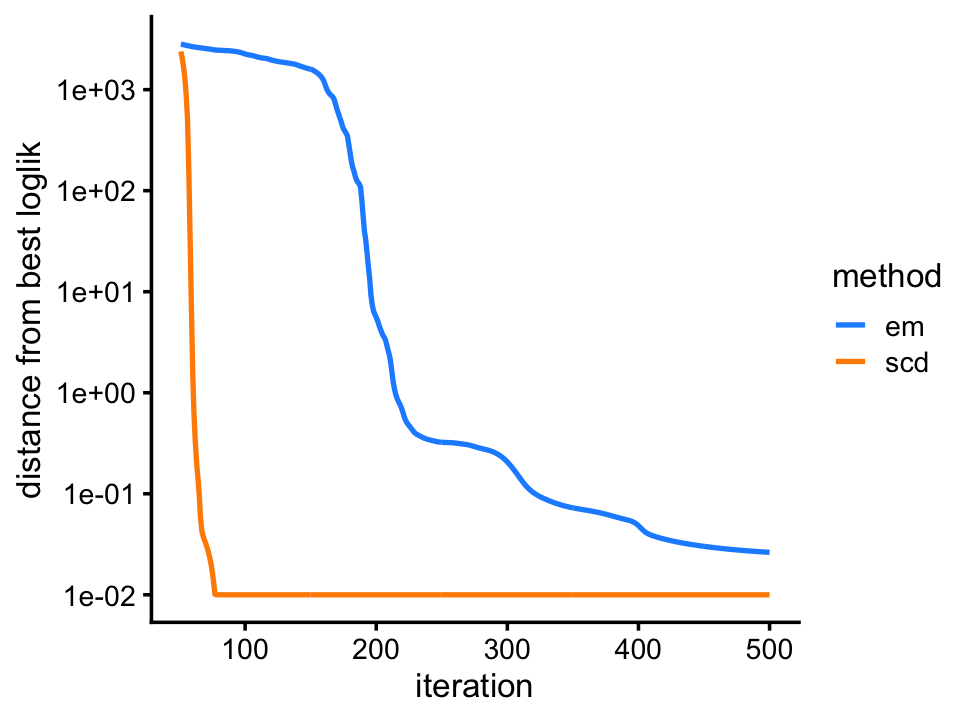
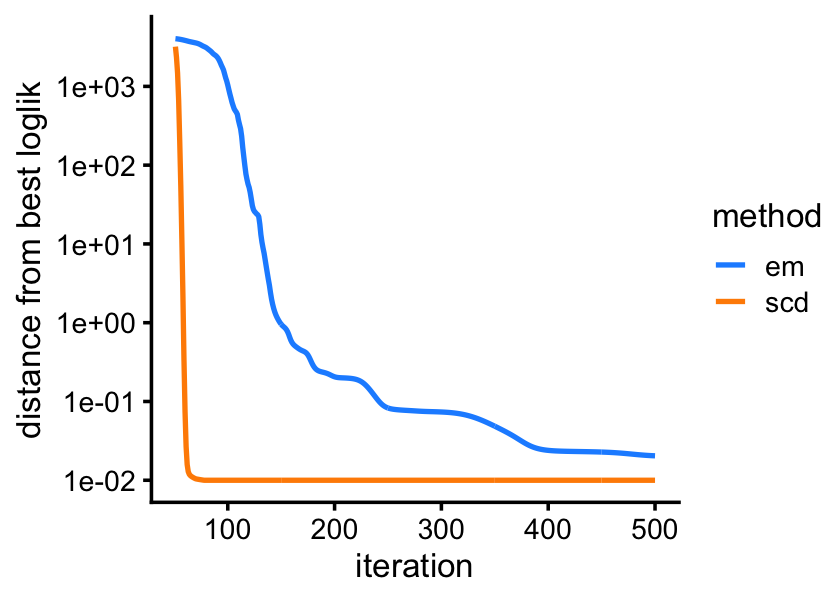
Added structure plots to "smallsim" demo.

diff --git a/docs/smallsim.html b/docs/smallsim.html
@@ -323,7 +323,7 @@ $(document).ready(function () {
 <div class="tab-content">
 <div id="summary" class="tab-pane fade in active">
 <p>
-<strong>Last updated:</strong> 2021-03-06
+<strong>Last updated:</strong> 2021-03-07
 </p>
 <p>
 <strong>Checks:</strong> <span class="glyphicon glyphicon-ok text-success" aria-hidden="true"></span> 7 <span class="glyphicon glyphicon-exclamation-sign text-danger" aria-hidden="true"></span> 0
@@ -414,16 +414,16 @@ This reproducible <a href="http://rmarkdown.rstudio.com">R Markdown</a> analysis
 <div class="panel panel-default">
 <div class="panel-heading">
 <p class="panel-title">
-<a data-toggle="collapse" data-parent="#workflowr-checks" href="#strongRepositoryversionstrongahrefhttpsgithubcomstephenslabfastTopicsexperimentstree5983a39958b6cece89223411678a1df2c27dc37dtargetblank5983a39a"> <span class="glyphicon glyphicon-ok text-success" aria-hidden="true"></span> <strong>Repository version:</strong> <a href="https://github.com/stephenslab/fastTopics-experiments/tree/5983a39958b6cece89223411678a1df2c27dc37d" target="_blank">5983a39</a> </a>
+<a data-toggle="collapse" data-parent="#workflowr-checks" href="#strongRepositoryversionstrongahrefhttpsgithubcomstephenslabfastTopicsexperimentstreeb9fac7160965e135174d291a9514ff1b4a25a10atargetblankb9fac71a"> <span class="glyphicon glyphicon-ok text-success" aria-hidden="true"></span> <strong>Repository version:</strong> <a href="https://github.com/stephenslab/fastTopics-experiments/tree/b9fac7160965e135174d291a9514ff1b4a25a10a" target="_blank">b9fac71</a> </a>
 </p>
 </div>
[2 lines of base64/hex data omitted]
 <div class="panel-body">
 <p>
 Great! You are using Git for version control. Tracking code development and connecting the code version to the results is critical for reproducibility.
 </p>
 <p>
-The results in this page were generated with repository version <a href="https://github.com/stephenslab/fastTopics-experiments/tree/5983a39958b6cece89223411678a1df2c27dc37d" target="_blank">5983a39</a>. See the <em>Past versions</em> tab to see a history of the changes made to the R Markdown and HTML files.
+The results in this page were generated with repository version <a href="https://github.com/stephenslab/fastTopics-experiments/tree/b9fac7160965e135174d291a9514ff1b4a25a10a" target="_blank">b9fac71</a>. See the <em>Past versions</em> tab to see a history of the changes made to the R Markdown and HTML files.
 </p>
 <p>
 Note that you need to be careful to ensure that all relevant files for the analysis have been committed to Git prior to generating the results (you can use <code>wflow_publish</code> or <code>wflow_git_commit</code>). workflowr only checks the R Markdown file, but you know if there are other scripts or data files that it depends on. Below is the status of the Git repository when the results were generated:
@@ -472,6 +472,57 @@ Message
 </tr>
 </thead>
 <tbody>
+<tr>
+<td>
+Rmd
+</td>
+<td>
+<a href="https://github.com/stephenslab/fastTopics-experiments/blob/b9fac7160965e135174d291a9514ff1b4a25a10a/analysis/smallsim.Rmd" target="_blank">b9fac71</a>
+</td>
+<td>
+Peter Carbonetto
+</td>
+<td>
+2021-03-07
+</td>
+<td>
+workflowr::wflow_publish(“smallsim.Rmd”)
+</td>
+</tr>
+<tr>
+<td>
+Rmd
+</td>
+<td>
+<a href="https://github.com/stephenslab/fastTopics-experiments/blob/01898dbae9ad0891562bfd9839cc1a6d86aadcc8/analysis/smallsim.Rmd" target="_blank">01898db</a>
+</td>
+<td>
+Peter Carbonetto
+</td>
+<td>
+2021-03-06
+</td>
+<td>
+Added some text to smallsim.Rmd.
+</td>
+</tr>
+<tr>
+<td>
+html
+</td>
+<td>
+<a href="https://rawcdn.githack.com/stephenslab/fastTopics-experiments/51c532110204c284dafd39d1172566530c2be8e6/docs/smallsim.html" target="_blank">51c5321</a>
+</td>
+<td>
+Peter Carbonetto
+</td>
+<td>
+2021-03-06
+</td>
+<td>
+Made some improvements to “smallsim” demo.
+</td>
+</tr>
 <tr>
 <td>
 Rmd
@@ -694,7 +745,7 @@ source(&quot;../code/smallsim_functions.R&quot;)</code></pre>
 <pre class="r"><code>set.seed(1)</code></pre>
 <div id="independent-topics-scenario" class="section level2">
 <h2>Independent topics scenario</h2>
-<p>In this first example, we simulate a <span class="math inline">\(100 \times 400\)</span> counts matrix from a multinomial topic model with 6 topics.</p>
+<p>In this first example, we simulate a <span class="math inline">\(100 \times 400\)</span> counts matrix from a multinomial topic model with <span class="math inline">\(K = 6\)</span> topics.</p>
 <pre class="r"><code>n &lt;- 100
 m &lt;- 400
 k &lt;- 6
@@ -704,13 +755,16 @@ L &lt;- simulate_loadings(n,k,S)
 s &lt;- simulate_sizes(n)
 X &lt;- simulate_multinom_counts(L,F,s)
 X &lt;- X[,colSums(X &gt; 0) &gt; 0]</code></pre>
-<p>The topic proportions for each sample—<em>i.e.</em>, a row of the counts matrix—are randomly drawn from the <a href="https://doi.org/10.1214/07-AOAS114">correlated topic model</a> in which <span class="math inline">\(\eta_i\)</span> for each sample <span class="math inline">\(i\)</span> is drawn from the multivariate normal with mean zero and covariance matrix <span class="math inline">\(S\)</span>, such that <span class="math inline">\(s_{kk} = 11\)</span>, <span class="math inline">\(s_{jk} = -2\)</span> for all <span class="math inline">\(j \neq k\)</span>. Generated in this way, the topic proportions tend to be roughly <em>orthogonal</em>. For example, compare the proportions for topics 5 and 6:</p>
-<pre class="r"><code>ggplot(data.frame(x = L[,5],y = L[,6]),aes(x = x,y = y)) +
-  geom_point(shape = 21,size = 1.75,color = &quot;white&quot;,fill = &quot;black&quot;) +
-  labs(x = &quot;topic 5 proportion&quot;,y = &quot;topic 6 proportion&quot;) +
-  theme_cowplot(font_size = 10)</code></pre>
-<p><img src="figure/smallsim.Rmd/plot-loadings-1-1.png" width="360" style="display: block; margin: auto;" /></p>
-<p>We compare two different updates for fitting a Poisson NMF model to the simulated counts: EM and sequential coordinate descent (SCD). We initialize the model fitting by first running 50 EM updates to better ensure that the same local maximum is recovered by both runs.</p>
+<p>The topic proportions for each of the 100 samples—that is, a row of the counts matrix—are randomly drawn according to the <a href="https://doi.org/10.1214/07-AOAS114">correlated topic model</a>: <span class="math inline">\(\eta_i\)</span> for row <span class="math inline">\(i\)</span> is drawn from the multivariate normal with mean zero and covariance matrix <span class="math inline">\(S\)</span>, such that <span class="math inline">\(s_{kk} = 11\)</span>, <span class="math inline">\(s_{jk} = -2\)</span> for all <span class="math inline">\(j \neq k\)</span>. Generated in this way, the topic proportions tend to be roughly orthogonal:</p>
+<pre class="r"><code>y &lt;- apply(L,1,which.max)
+y &lt;- rank(y,ties.method = &quot;random&quot;)
+y &lt;- qqnorm(y,plot.it = FALSE)$x
+fit &lt;- list(L = L)
+class(fit) &lt;- c(&quot;multinom_topic_model_fit&quot;,&quot;list&quot;)
+structure_plot(fit,topics = 1:6,perplexity = 30,Y_init = matrix(y),
+               verbose = FALSE)</code></pre>
+<p><img src="figure/smallsim.Rmd/structure-plot-1-1.png" width="720" style="display: block; margin: auto;" /></p>
+<p>Here we compare two different updates for fitting a Poisson NMF model to the simulated counts: EM updates, and sequential coordinate descent (SCD). The model fitting is initialized by first running 50 EM updates, with the aim of better ensuring that the same local maximum is recovered by both runs.</p>
 <pre class="r"><code>fit0 &lt;- fit_poisson_nmf(X,k,numiter = 50,method = &quot;em&quot;,
                         control = list(extrapolate = FALSE,numiter = 4))
 fit1 &lt;- fit_poisson_nmf(X,fit0 = fit0,numiter = 450,method = &quot;em&quot;,
@@ -718,16 +772,8 @@ fit1 &lt;- fit_poisson_nmf(X,fit0 = fit0,numiter = 450,method = &quot;em&quot;,
 fit2 &lt;- fit_poisson_nmf(X,fit0 = fit0,numiter = 450,method = &quot;scd&quot;,
                         control = list(extrapolate = FALSE,numiter = 4))
 fit1 &lt;- poisson2multinom(fit1)
-fit2 &lt;- poisson2multinom(fit2)
-# Initializing factors using Topic SCORE algorithm.
-# Initializing loadings by running 10 SCD updates.
-# Fitting rank-6 Poisson NMF to 100 x 397 dense matrix.
-# Running 50 EM updates, without extrapolation (fastTopics 0.5-24).
-# Fitting rank-6 Poisson NMF to 100 x 397 dense matrix.
-# Running 450 EM updates, without extrapolation (fastTopics 0.5-24).
-# Fitting rank-6 Poisson NMF to 100 x 397 dense matrix.
-# Running 450 SCD updates, without extrapolation (fastTopics 0.5-24).</code></pre>
-<p><em>Add text here.</em></p>
+fit2 &lt;- poisson2multinom(fit2)</code></pre>
+<p>This next plot shows the improvement in the solution over time for the EM and SCD updates.</p>
 <pre class="r"><code>pdat &lt;- rbind(data.frame(x=1:500,y=fit1$progress$loglik.multinom,method=&quot;em&quot;),
               data.frame(x=1:500,y=fit2$progress$loglik.multinom,method=&quot;scd&quot;))
 pdat &lt;- transform(pdat,y = max(y) - y + 0.01)
@@ -738,7 +784,7 @@ ggplot(pdat,aes(x = x,y = y,color = method)) +
   scale_color_manual(values = c(&quot;dodgerblue&quot;,&quot;darkorange&quot;)) +
   labs(x = &quot;iteration&quot;,y = &quot;distance from best loglik&quot;) +
   theme_cowplot(font_size = 10)</code></pre>
-<p><img src="figure/smallsim.Rmd/plot-progress-1-1.png" width="480" style="display: block; margin: auto;" /></p>
+<p><img src="figure/smallsim.Rmd/plot-progress-1-1.png" width="420" style="display: block; margin: auto;" /></p>
 <p>
 <button type="button" class="btn btn-default btn-xs btn-workflowr btn-workflowr-fig" data-toggle="collapse" data-target="#fig-plot-progress-1-1">
 Past versions of plot-progress-1-1.png
@@ -761,6 +807,17 @@ Date
 </tr>
 </thead>
 <tbody>
+<tr>
+<td>
+<a href="https://github.com/stephenslab/fastTopics-experiments/blob/51c532110204c284dafd39d1172566530c2be8e6/docs/figure/smallsim.Rmd/plot-progress-1-1.png" target="_blank">51c5321</a>
+</td>
+<td>
+Peter Carbonetto
+</td>
+<td>
+2021-03-06
+</td>
+</tr>
 <tr>
 <td>
 <a href="https://github.com/stephenslab/fastTopics-experiments/blob/59a85948be8fa2d1ea13ad13b5c9f5d8c3590700/docs/figure/smallsim.Rmd/plot-progress-1-1.png" target="_blank">59a8594</a>
@@ -787,6 +844,7 @@ Peter Carbonetto
 </table>
 </div>
 </div>
+<p>Among the two methods compared, the SCD updates progresses more rapidly toward a solution. Still, the EM updates recover the same solution after a reasonable number of iterations. Next we will see an example in which EM updates fail to make reasonable progress.</p>
 </div>
 <div id="correlated-topics-scenario" class="section level2">
 <h2>Correlated topics scenario</h2>
@@ -798,7 +856,14 @@ L &lt;- simulate_loadings(n,k,S)
 X &lt;- simulate_multinom_counts(L,F,s)
 X &lt;- X[,colSums(X &gt; 0) &gt; 0]</code></pre>
 <p>TO DO: Plot mixture proportions for topics 5 and 6.</p>
-<p><em>Add text here.</em></p>
+<pre class="r"><code>y &lt;- apply(L,1,which.max)
+y &lt;- rank(y,ties.method = &quot;random&quot;)
+y &lt;- qqnorm(y,plot.it = FALSE)$x
+fit &lt;- list(L = L)
+class(fit) &lt;- c(&quot;multinom_topic_model_fit&quot;,&quot;list&quot;)
+structure_plot(fit,topics = 1:6,perplexity = 30,Y_init = matrix(y),
+               verbose = FALSE)</code></pre>
+<p><img src="figure/smallsim.Rmd/structure-plot-2-1.png" width="720" style="display: block; margin: auto;" /></p>
 <pre class="r"><code>fit0 &lt;- fit_poisson_nmf(X,k,numiter = 50,method = &quot;em&quot;,
                         control = list(extrapolate = FALSE,numiter = 4))
 fit1 &lt;- fit_poisson_nmf(X,fit0 = fit0,numiter = 800,method = &quot;em&quot;,
